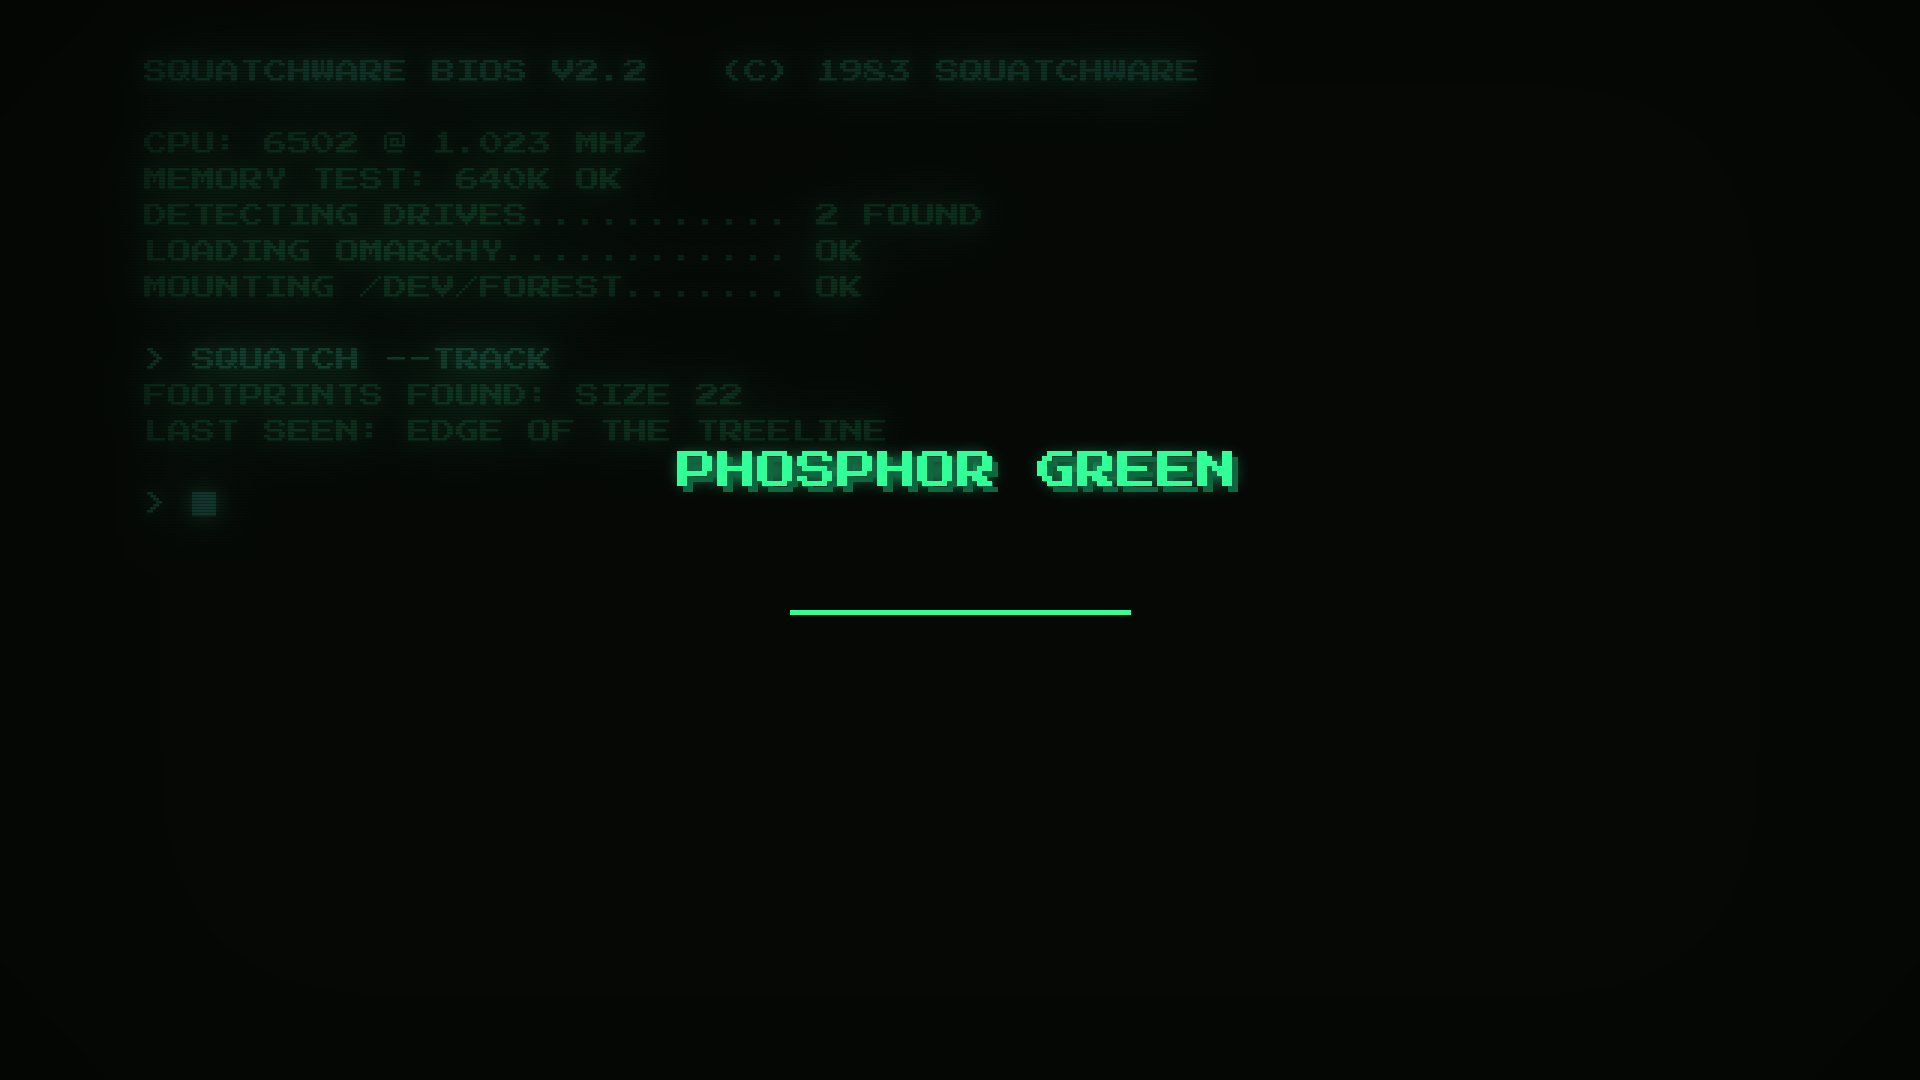
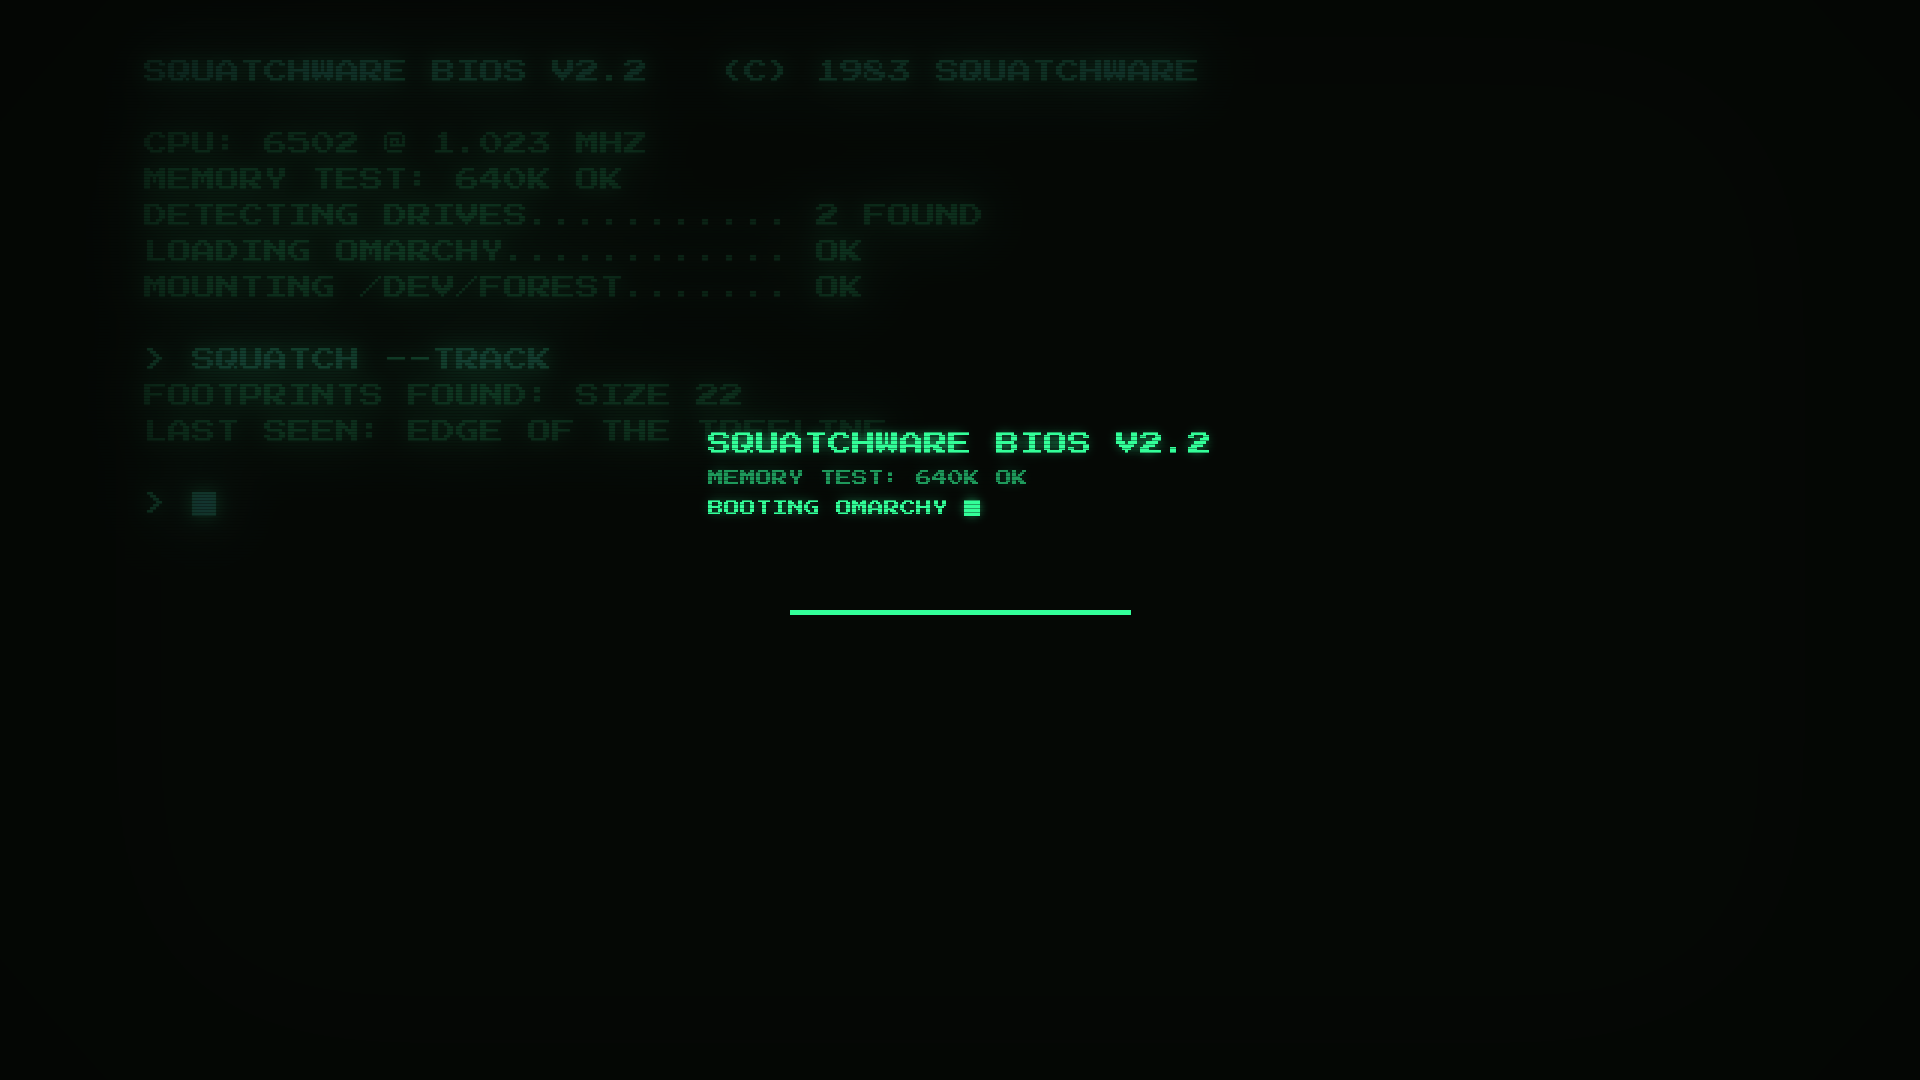
Boot splash, screensaver and extras

Changed region(s): [[0.3438, 0.3972, 0.6562, 0.4889]]

diff --git a/README.md b/README.md
@@ -21,7 +21,21 @@ omarchy theme install https://github.com/squatchware/omarchy-phosphor-green-them
 - **Wallpapers**, drawn at the machine's own resolution and scaled up with no smoothing:
 - `01-boot.jpg`
 - `02-treeline.jpg`
-- **Lock screen** wordmark (`unlock.png`).
+- **Boot splash and lock screen** (`unlock.png`): the machine's own start-up screen.
+- **Screensaver** art (`screensaver.txt`), animated by Omarchy's screensaver.
+
+## Extras
+
+The screensaver and boot splash need one command each (the second asks for sudo):
+
+```sh
+~/.config/omarchy/themes/phosphor-green/extras/install-extras.sh          # screensaver
+~/.config/omarchy/themes/phosphor-green/extras/install-extras.sh --boot   # + boot splash
+```
+
+The screensaver hook is shared by every Squatchware theme: it uses the active theme's art and
+puts your own back when you switch to a theme without any. The boot splash stays until you run
+`omarchy plymouth set by theme <name>` for another theme.
 
 ## The rest of the pack
 
